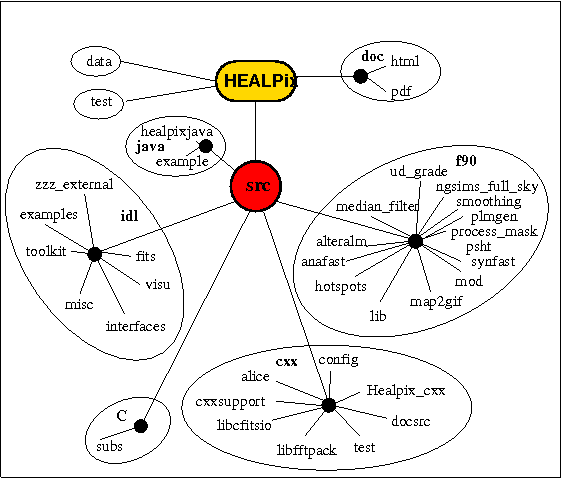
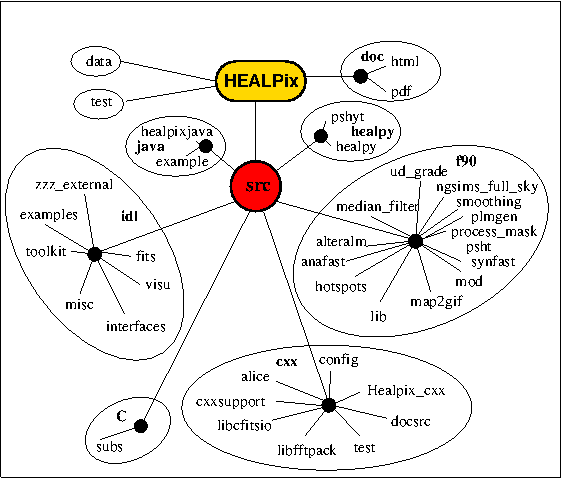
updating documentation
git-svn-id: https://healpix.svn.sourceforge.net/svnroot/healpix@315 418d6a58-06b9-4acd-b088-1c64f26d13d0

diff --git a/trunk/doc/TeX/main.html b/trunk/doc/TeX/main.html
@@ -52,11 +52,15 @@ HEALPix C++ Facilities and Subroutines Overview
 <a href="java/index.html">
 HEALPix Java Overview
 </a></li>
+<li>
+<a href="http://healpy.github.com/healpy">
+HEALPix Python routines
+</a></li>
 </ul>
 </font>
 
 <font size=+0 FACE="Times" COLOR="#000000">
-Notes: the pages above require an <b>HTML 4.0</b> enabled browser.<br>
+<!-- Notes: the pages above require an <b>HTML 4.0</b> enabled browser.<br> -->
 <!-- The Java documentation is generated when that package is installed.<br> -->
 The complete documentation can also be seen at <a href="http://healpix.jpl.nasa.gov/healpixSoftwareDocumentation.shtml">Healpix Documentation web page</a>
 <br>

diff --git a/trunk/doc/TeX/install.tex b/trunk/doc/TeX/install.tex
@@ -155,6 +155,11 @@ configuration which is beyond our control.
 %
  & & \\
 %
+  C       & This document, or \phantom{filling up --} {\tt src/C/README} & 
+    \linklatexhtml{''C Subroutines Overview''}{csub.pdf}{csub.htm} \\ 
+%
+ & & \\
+%
   Java    & {\tt src/java/README} & 
 %\htmladdnormallink{''Java Overview''}{java/index.html}
 \linklatexhtml{''Java Overview''}{../html/java/index.html}{java/index.html}
@@ -162,14 +167,10 @@ configuration which is beyond our control.
 %
  & & \\
 %
-  Python    & {\tt src/healpy/README.rst} & 
-\linklatexhtml{''Healpy Documentation''}{http://healpy.github.com/healpy}{http://healpy.github.com/healpy}
-\\
-%
- & & \\
-%
-  C       & This document, or \phantom{filling up --} {\tt src/C/README} & 
-    \linklatexhtml{''C Subroutines Overview''}{csub.pdf}{csub.htm} \\ 
+  Python    & {\tt src/healpy/INSTALL} & 
+\linklatexhtml{''Healpy
+Documentation''}{http://healpy.github.com/healpy}{http://healpy.github.com/healpy}
+ (HTML only)\\
 %
                                    &                          \\ \hline %%% for presentation
 \end{tabular}
@@ -298,6 +299,23 @@ We are providing one (both in C++ and F90) which is an adaptation of an xorshift
 %% One of us (BDW) has therefore attempted to create one and we
 %% provide it as free software with this package (cf. Appendix I).
 
+
+\section{{\tt healpix\_doc}: an easy access to \healpix documentation}
+The shell script {\tt healpix\_doc} now is available to provide easy
+access to the HTML and/or PDF documentation of {\em all} Healpix packages.
+It will automatically open a web browser or PDF viewer (among those found on the
+system) on the documentation
+available locally (at {\tt \$HEALPIX/doc}) or on remote web sites. To use it, simply type\\
+\mycode{\$HEALPIX/healpix\_doc} \\
+or \\
+\mycode{\$HEALPIX/healpix\_doc -p}\\
+to access respectively the HTML and PDF documentation. The default browser and
+viewer used by {\tt healpix\_doc} can {\em optionally} be set with the
+environment variables
+{\tt \$HEALPIX\_HTML\_BROWSER} and
+{\tt \$HEALPIX\_PDF\_VIEWER}.
+
+
 \section{The Installation Procedure}
 
 If the user has one of the supported OS's, then installation proceeds utilizing
@@ -418,6 +436,17 @@ If the HEALPix configuration file is
 sourced as described in \S~\ref{subsub:conf}, the aliases {\tt hidl} and {\tt hidle}
 are also defined to give you access to HEALPIX routines from IDL.
 
+\subsubsection{Java installation}
+The configuration and installation of the Healpix Java package is currently
+handled separately. See table~\ref{tab:allpackages} for more information.
+
+\subsubsection{Python installation}
+The configuration and installation of the Healpix Python package (healpy) is currently
+not handled by the {\tt configure} script: see table~\ref{tab:allpackages} for more
+information. Note that running the
+{\tt src/healpy/setup.py} Python script will automatically prompt a {\em fresh} compilation of the
+{\tt src/cxx/*} libraries, with all the options necessary to Python linkage, and
+can be done independently of the C++ installation described above.
 
 \subsection{Compilation and installation}
 
@@ -619,7 +648,7 @@ http://gcc.gnu.org/wiki/GFortranBinaries}.
 \end{itemize}
 
 \subsection{Problems with CFITSIO}
-\subsubsection{Compilation of CFITSIO Fortran wrappers}
+\subsubsection*{Compilation of CFITSIO Fortran wrappers}
 The most common problem with the Fortran \healpix compilation will produce
 messages like:
 \begin{verbatim}
@@ -665,7 +694,7 @@ system (it can be replaced below by {\tt \bf gfortran}, {\tt \bf g95}, {\tt \bf 
 \end{enumerate}
 See also the note below on 64 bit architectures.
 
-\subsubsection{CFITSIO problems on systems with 64 bit architecture}
+\subsubsection*{CFITSIO problems on systems with 64 bit architecture}
 
 \begin{enumerate}
 %
@@ -707,7 +736,7 @@ then force compilation to the same binary format by entering either
 %
 \end{enumerate}
 
-\subsubsection{CFITSIO linking problems}
+\subsubsection*{CFITSIO linking problems}
 
 A particular problem encountered with the CFITSIO Version 2.0 release relates
 to the inclusion of various libraries within the system release for a given
@@ -719,7 +748,7 @@ as one source of errors. The CFITSIO developers recommend compilation of the
 {\tt make testprog} statement will reveal those you need to include in the
 Makefile.
 
-\subsubsection{CFTISIO and Debian/Linux}
+\subsubsection*{CFTISIO and Debian/Linux}
 
 Some problems have been reported on Debian/Linux systems during the
 linking to the CFITSIO library shipped with Linux. If these problems
@@ -824,7 +853,7 @@ of Postscript, GIF and PNG files, as described below.
 
 
 
-\subsubsection{Specific requirements}
+\subsubsection*{Specific requirements}
 
 \begin{enumerate}
 \item
@@ -885,7 +914,7 @@ output files.
 
 \end{enumerate}
 
-\subsubsection{Impact of GDL limitations on \healpix}
+\subsubsection*{Impact of GDL limitations on \healpix}
 \begin{itemize}
 \item {\tt Ximview} won't work under GDL \gdlversion
 % \item Because of problems with GDL's {\tt point\_lun} routine, the reading of
@@ -914,6 +943,9 @@ transparent in the output PNG file.
 %%%%%%%%%%%%%%%%%%%%%%%%%%%%%%%%%%%% BEGIN LATEST CHANGES %%%%%%%%%%%%%
 \subsection{Bug corrections and Improvements in Version 3.0} % 2012-??
 
+\subsubsection[General]
+Introduction of the script {\tt healpix\_doc} for easy access to the \healpix
+PDF and HTML documentation.
 
 \subsubsection[C]{\linklatexhtml{C}{csub.pdf}{csub.htm}}
 \begin{itemize}
@@ -965,34 +997,44 @@ Facilities now check input maps for undefined pixels before calling map2alm().
 
 \end{itemize}
 
-\subsubsection[Fortran]{\linklatexhtml{Fortran 90}{subroutines.pdf}{subroutines.htm}}
+\subsubsection[Fortran]{%
+Fortran 90 \linklatexhtml{facilities}{facilities.pdf}{facilities.htm} and
+\linklatexhtml{subroutines}{subroutines.pdf}{subroutines.htm}
+}
 \begin{itemize}
 	\item introduction of the 
 \htmlref{{\tt process\_mask}}{fac:process_mask}
 facility to compute the angular distance of valid
-pixels to the closest invalid pixels for a input binary mask,
+pixels to the closest invalid pixels for a input binary mask, and of the
+supporting routines 
+\htmlref{\tt dist2holes\_nest}{sub:dist2holes_nest}, 
+\htmlref{\tt fill\_holes\_nest}{sub:fill_holes_nest}, 
+\htmlref{\tt maskborder\_nest}{sub:maskborder_nest},
+\htmlref{size\_holes\_nest}{sub:size_holes_nest};
 	\item the pixel query routine
  \htmlref{{\tt query\_disc}}{sub:query_disc}
 has been improved and will return fewer
 false positive pixels in the 
-inclusive mode,
+inclusive mode;
 %\mylink{sub:query_disc:inclusive}{{\em inclusive}} 
 	\item improved accuracy of the co-latitude calculation in the vicinity
 of the poles at high resolution in \htmlref{{\tt nest2ring, ring2nest,
-pix2ang\_*, pix2vec\_*, $\ldots$}}{sub:pix_tools},
+pix2ang\_*, pix2vec\_*, $\ldots$}}{sub:pix_tools};
 	\item \htmlref{{\tt sky\_ng\_sim}}{fac:sky_ng_sim} now allows the computation
 of the spatial derivatives of the non Gaussian map being produced, and the
-output of the $a_{lm}$ coefficients of that map,
+output of the $a_{lm}$ coefficients of that map;
 	\item \htmlref{{\tt anafast}}{fac:anafast} now allows the
 pro/down-grading of the input mask to match the resolution of the map(s) being
-analyzed.
+analyzed;
+	\item the median filter routine \htmlref{\tt medfiltmap}{sub:medfiltmap}, used by the facility
+\htmlref{\tt median\_filter}{fac:median_filter} is now parallelized.
 % 	\item%
 % new code {\tt process\_mask} and new module {\tt mask\_tools} containing the routines
 % \htmlref{dist2holes\_nest}{sub:dist2holes_nest}, 
 % \htmlref{fill\_holes\_nest}{sub:fill_holes_nest}, 
 % \htmlref{maskborder\_nest}{sub:maskborder_nest},
 % \htmlref{size\_holes\_nest}{sub:size_holes_nest} useful for mask apodization,
-mode.
+%mode.
 \end{itemize}
 
 \subsubsection[IDL]{\linklatexhtml{IDL}{idl.pdf}{idl.htm}}

diff --git a/trunk/doc/TeX/pdf_index.tex b/trunk/doc/TeX/pdf_index.tex
@@ -42,6 +42,7 @@
     \item \linklatexhtml{HEALPix \textbf{C Subroutines} Overview}{csub.pdf}{}
     \item \textcolor{lightgray} {HEALPix C++ Facilities and Subroutines Overview (HTML Only)}
     \item \textcolor{lightgray} {HEALPix Java Overview (HTML Only)}
+    \item \textcolor{lightgray} {HEALPix Python Overview (HTML Only)}
 \end{itemize}
 
 \end{document}
